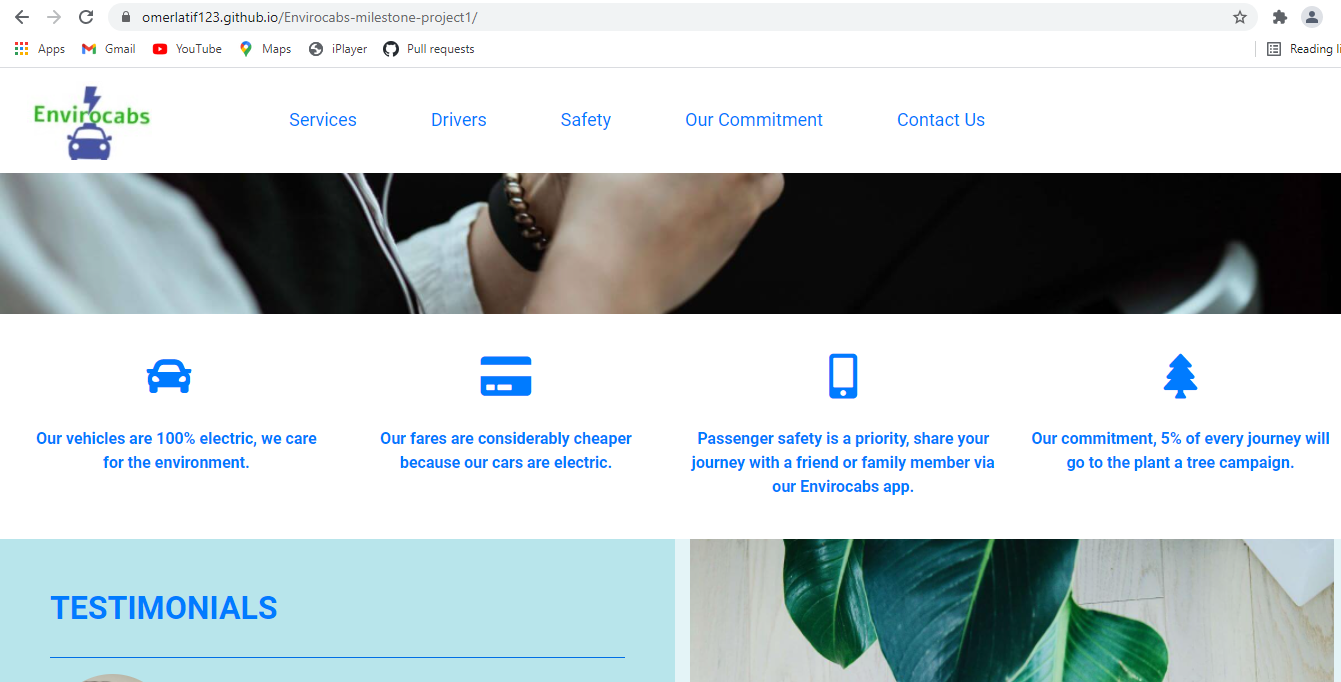
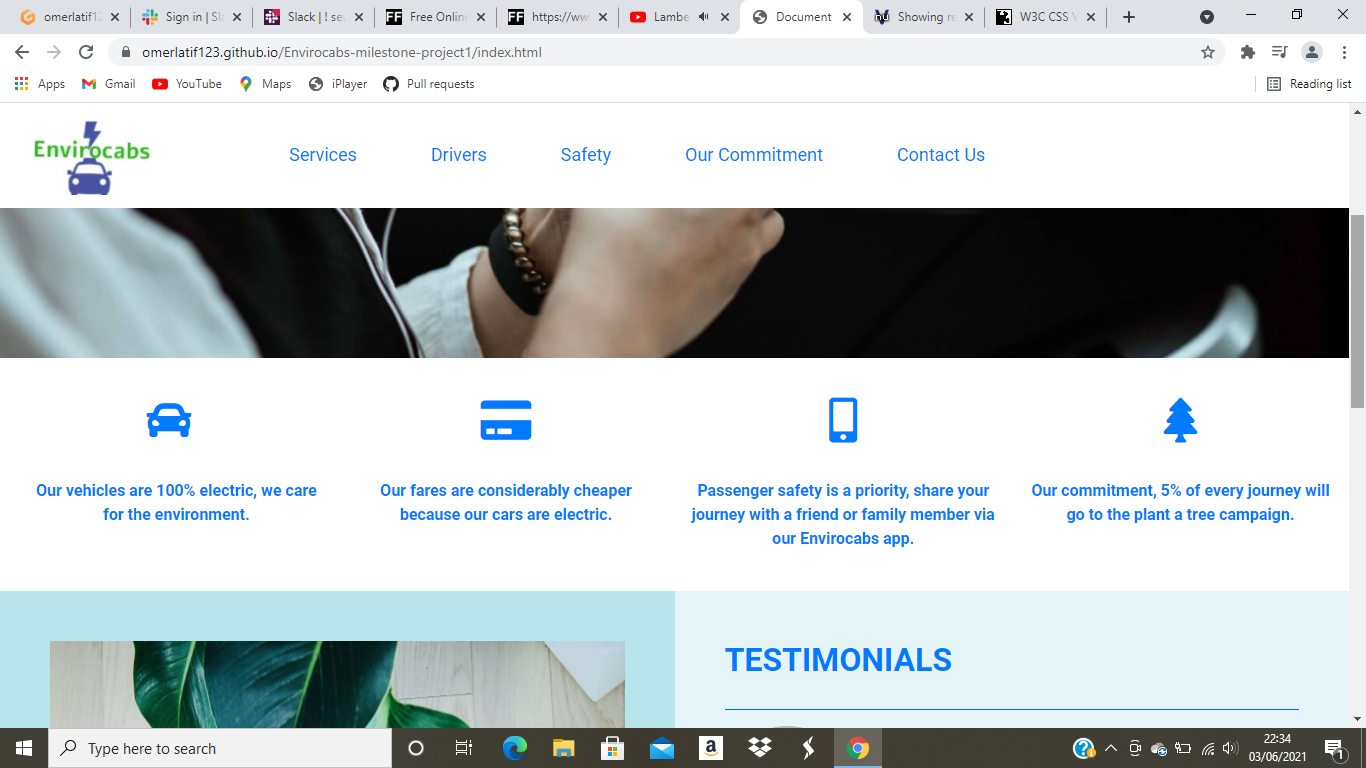
in the process of beautifying readme file, project near completion

diff --git a/README.md b/README.md
@@ -82,9 +82,10 @@ iii.[Differences to Design](#Differences-to-Design)
 
 ### What is the purpose? 
 
-The company wants the website to be simple and visually attractive to its customers. They also want website viewers to be given the opportunity to quickly book a cab or download their app with ease through the website. This is the overall goal of the company to have new and existing customers to book cabs.  Envirocabs has also stated that they want to further expand their social media presence and therefore this must be highlighted on their website, to allow website visitors to access their Instagram, Facebook, Twitter and Snap chat.  
+The company wants the website to be simple and visually attractive to its customers. They also want website viewers to be given the opportunity to quickly book a cab or download their app with ease through the website. This is the overall goal of the company to have new and existing customers to book cabs.  Envirocabs has also stated that they want to further expand their social media presence and therefore this must be highlighted on their website, to allow website visitors to access their Instagram, Facebook, Twitter and Snapchat.  
 
-Our client is Envirocabs a start-up minicab office that is environmentally friendly. All Envirocabs vehicles are 100% electric and produce 0% omissions. The client wants to highlight this on their website as an environmentally friendly alternative to its competitors. Furthermore, the company believes there is a niche in the market to attract those aiming to reduce their carbon footprint but still require cabs to travel. The company wants to attract new customers as its innovative and literally a breath of fresh air from its polluting competitors. Envirocabs wants us to also highlight the environmental initiatives to further bolster their public image. 
+Our client is Envirocabs a start-up minicab office that is environmentally friendly, all Envirocabs vehicles are 100% electric and produce 0% omissions. The client wants to highlight this on their website as an environmentally friendly alternative to its competitors. Furthermore, the company believes there is a niche in the market to attract those aiming to reduce their carbon footprint but still require cabs to travel. The company wants to attract new customers as its innovative and literally a breath of fresh air from its polluting competitors. 
+Envirocabs wants us to also highlight the environmental initiatives to further bolster their public image. 
 
 ## UXD 
 
@@ -105,7 +106,7 @@ Our client is Envirocabs a start-up minicab office that is environmentally frien
 
 ## Structure 
 
-1)	I want to be able to navigate through the website quick and easily.   
+1)	I want to be able to navigate through the website quick and easily.
     
     The website will have a navigation menu at the top of the webpage, that will allow a visitor to select a heading to direct them to a new page. The header will have a logo when pressed that will take the visitor (which is a modern feature of other websites) to the Home Page. The rest of the header will have the following new page links Services, Drivers, Safety, Our Commitments and Contact Us.    
 
@@ -115,7 +116,9 @@ Our client is Envirocabs a start-up minicab office that is environmentally frien
 
 3)	 I want to learn about the company and its ethos on their website.  
      
-     The Home page will have a section which gives a visitor information about the company with the use of icon and text. Too much information will not be provided as to prevent the users from being overwhelmed with information on the Home page. The home page will feature testimonials from previous customers to reassure any new customer about its service. For further information about the company’s ethos the visitor can click on our commitments heading. The page will highlight the company’s commitment to the environment and its plant a tree initiative. It will state what the company has implemented to make itself environmentally friendly.    
+     The Home page will have a section which gives a visitor information about the company with the use of icon and text. Too much information will not be provided as to prevent the users from being overwhelmed with information on the Home page. The home page will feature testimonials from previous customers to reassure any new customer about its service. 
+     
+     For further information about the company’s ethos the visitor can click on our commitments heading. The page will highlight the company’s commitment to the environment and its plant a tree initiative. It will state what practices the company has implemented to make itself environmentally friendly.    
 
 4)	I want to be able to follow the company on various media platforms.  
     
@@ -123,15 +126,17 @@ Our client is Envirocabs a start-up minicab office that is environmentally frien
 
 5)	I want to learn about the safety procedures the company has in place during the pandemic.  
      
-     Considering the on-going pandemic, customers want to be reassured that practices are in places to keep them protected. The Safety page will highlight with icon and information that the vehicles are regularly cleaned, drivers will wear a face mask along with customers, hand sanitiser is available to use, and safety screens are in every vehicle.  The company’s commitment to customer safety will be highlighted by promoting they have acquired an accreditation in hygiene.
+     Considering the on-going pandemic, customers want to be reassured that practices are in places to keep them protected. The Safety page will highlight with icons and information vehicles are regularly cleaned, drivers will wear a face mask along with customers, hand sanitiser is available to use, and safety screens are in every vehicle.  The company’s commitment to customer safety will be highlighted by promoting they have acquired an accreditation in hygiene.
 
 6)	We want visitors to the site, to book on our website directly or download our app to book a cab.  
 
-    The Website Homepage will have a button on the hero image that when selected will take the visitor to the contact us page. Furthermore, on every page the website footer has the option to book directly through the website with a make a booking button or to select the apple or android icons that will allow the customer to download our app.   
+    The Website Homepage will have a button on the hero image that when selected will take the visitor to the contact us page. 
+    
+    Furthermore, on every page the website footer has the option to book directly through the website with a make a booking button or to select the apple or android icons that will allow the customer to download our app.   
 
 7)	We want visitors to be aware our fleet of vehicles are 100% electric and there 0% emissions, want to target customers who want to reduce their carbon footprint and those wanting to be greener. 
     
-    On the Homepage the visitor to the site will be given some information about Envirocabs. The visitor will be provided with information that the vehicles are electric and produce no emissions. Other headers such as Service will provide type of cabs we offer (standard 5-seater car, executive car, and 7-seater car), and other services such as removals (van) we offer but emphasising our fleet of vehicles are 100% electric and produce 0% emissions. 
+    On the Homepage the visitor to the site will be given some information about Envirocabs. The visitor will be provided with information that the vehicles are electric and produce no emissions. Other headers such as Service will provide the type of cabs we offer (standard 5-seater car, executive car, and 7-seater car), and other services such as removals (van) but emphasising our fleet of vehicles are 100% electric and produce 0% emissions. 
 
 8)	We want visitors to be presented with information that we are a green alternative to other companies.     
     
@@ -148,13 +153,15 @@ Our client is Envirocabs a start-up minicab office that is environmentally frien
       
 ## Skeleton
 
-Wireframe mockups were created in a Balsamic with our clients and potential visitors goal in mind.
+Wireframe mockups were created in a Balsamic with our clients and potential visitors goals in mind.
 Images section in the wireframes have been higlighted in blue, this was previously due to the images from the wireframe being different from the completed website. 
 Furthermore the images used on the final Envirocabs website are free to use images causing no copyright/royalty payment concerns. Some of the images from the wireframes may not have been copyright/royalty free and therefore the imagess have bee covered as a precaution. 
 
 Home Page:
 ![home Page Wireframe](assets/readme-files/home-wireframe-page.png "home Page Wireframe")
 
+please note the image next to the testimonial section was intially on right hand side as reflected by the wireframes.
+In the finshed website the images is on the left hand side.
 
 Services Page:
 ![services Page Wireframe](assets/readme-files/services-page.png "services Page Wireframe")
@@ -174,8 +181,11 @@ Contact Us Page:
 # Design
 
 ### Colour Scheme
-The two main colours used are Blue and White as these colours compliment the Envirocabs logo. The colour concept is blue because this is associated with the colour of electricity this relates to our vehicles being 100% electric. White was used as a contrast to blue and gives the website a simplistic but professional and sytlish look. The website should look appealing but should allow the customer to focus on the content rather than to visually distracted by an array of colours.
-Green was picked for the Our Commitment page in which we the client wanted to highlight their green initiatives and procedures Envirocabs is implementing to go greener. Environment is associated with green and therefore we wanted this to be highlight. All other webpages have blue text, but Our Commitment page has green text. The sudden colour change will draw the attention of the user when they are on this page.   
+The two main colours used are Blue and White as these colours compliment the Envirocabs logo. The colour concept is blue because this is associated with the colour of electricity this relates to our vehicles being 100% electric. White was used as a contrast to blue and gives the website a simplistic but professional and sytlish look. The website should look appealing but allow the customer to focus on the content rather than to visually distracted by an array of colours.
+
+Green was picked for the Our Commitment page in which we the client wanted to highlight their green initiatives and procedures Envirocabs is implementing to go greener. Environment is associated with green and therefore we wanted this to be highlighted. All other webpages have blue text, but Our Commitment page has green text. The sudden colour change will draw the attention of the user when they are on this page.   
+
+Various shades of the main colours are used throughtout the website, keeping are colour scheme but at the same time preventing the website becoming visually dull. 
 
  #### Colours used in website background and text.
 
@@ -197,10 +207,10 @@ Green was picked for the Our Commitment page in which we the client wanted to hi
 
 
 #### Typography
-The headers on all pages throughout the Website and main text is using the font ‘Roboto’ with default text of ‘San-Serif’. The header text and parts of the main text are bold catching the user’s eye. We have kept our content at a minimal not to make our website cluttered or causing the user cognitive overload with large amount of information text. Furthermore when researching other cab webpages such as uber,bolt etc have minimalistic content.
+The headers on all pages throughout the Website and main text use the font ‘Roboto’ with default text of ‘San-Serif’. The header text and parts of the main text are bold catching the user’s eye. We have kept our content at a minimal not to make our website cluttered or to prevent cognitive overload with large amount of information. Furthermore when researching other cab webpage the best one's have minimalistic content.
 
 #### Imagery
-Brand awareness is important to Envirocabs and they have requested their own Logo to be used in the Nav section of the website. The header contains the Envirocabs logo which has been designed and created on www.wix.com. (https://www.wix.com/logo/maker/esh). The logo is interactive and when clicked will redirect the user back to the home page.   
+Brand awareness is important to Envirocabs and they have requested their own Logo to be used in the Nav section of the website. The header contains the Envirocabs logo which has been designed and created on www.wix.com. The logo is interactive and when clicked will redirect the user back to the home page.   
 The images used are all related to section of the website the user is on, for example in the safety section the hero image is of a car interior being cleaned. The imagery chosen fits well within the theme of the webpage as they relate to the subject matter. The imagery used is also visually striking without being overbearing on the rest of the webpage.     
 
 
@@ -210,42 +220,46 @@ The images used are all related to section of the website the user is on, for ex
 
 ### <strong>Header</strong>
 
-Contains Envirocabs logo in the top left of screen and when clicked will redirect user back to home page. The right of the navigation bar contains headings (our Services, Drivers, Safety, Our Commitment and Contact us when clicked will direct user to appropriate page of website. 
+Contains Envirocabs logo in the top left of screen and when clicked will redirect the user back to home page. The right of the navigation bar contains headings (our Services, Drivers, Safety, Our Commitment and Contact us when clicked will direct user to appropriate page of website). 
 On smaller screens, the navigation bar collapses into a toggler icon. Clicking it will reveal navigation headings.  
 
 ### <strong>Footer</strong>
 
-Left hand side of the footer contains make a booking button when clicked will redirect user to contact us page which has the make a booking form. The user can make a booking directly through the Envirocabs website or is given the option to download the app. Both the Apple icon and Android icon when clicked will redirect users to their platforms for them to download the app. The right-hand side of the footer contains social media icons, when clicked will redirected to the company’s social media pages.  
+Left hand side of the footer contains make a booking button when clicked will redirect user to contact us page which has the make a booking form. The user can make a booking directly through the Envirocabs website or is given the option to download the app. Both the Apple icon and Android icon when clicked will redirect users to their platforms for them to download the app. 
+
+The right-hand side of the footer contains social media icons, when clicked will redirected to the company’s social media pages.  
 
 ### <strong>Home Page</strong>
 
-Hero image with Booking button- Below the header there will be a large hero image with a bold blue/ white booking button. The booking button on the hero image when clicked will redirect the user to the contact us page which has the make a booking form. The high-quality professional image used sets the tone for Envirocabs webpage. 
+Hero image with Booking button- Below the header there will be a large hero image with a bold green/white booking button. The booking button on the hero image when clicked will redirect the user to the contact us page which has the make a booking form. The high-quality professional image used sets the tone for Envirocabs webpage. 
 Information container with icons- The information container provides brief information about the positives of using Envirocabs to the user/customer. Information is concise and straight to the point therefore keeping the user engaged. Too information may prevent the user from reading further, icons above the information to makes it visually appealing.   
 Testimonial- The testimonial section provides quotes and images of happy customers. This was designed to persuade users/customers to use Envirocabs. When reading positive comments about the company it will reassure users/ first time customers who are thinking of using Envirocabs. The testimonial background colour was used to draw the user’s attention to the section and break up the colour scheme of the webpage. 
+Image- A image next to the testimonial section will help break the page down and image of a suitcase also provoke thoughts of travel to the vistors/customer.
 
 ### <strong>Our Services section</strong>
 
 Hero image- The large hero image below the navbar will be relevant to the section.
-Information container- provides the relevant information to the customer about Envirocabs electric vehicles and visually separates the page. The section has been left with colour to the text or background to prevent visual overload. The hero image is visually striking and the services grid therefore in the middle of the webpage is left plain. 
-Information grid with images- grid of 8 boxes but split into sections of 2. The boxes on the left side contain information about the vehicles and the boxes on the right side have the images of vehicles. This provides clarity to the user/customer to view and read about the vehicle that suits their need before they book. Two tons of blue are used to alternate between the boxes to create a visually appealing section.    
+Information container- provides relevant information to the vistor about Envirocabs electric vehicles and visually separates the page. The section has been left without colour to the text or background to prevent visual overload and to break the page up. The hero image is visually striking and the services grid is also visually striking therefore the middle of the webpage is left plain. 
+Information grid with images- grid of 8 boxes but split into sections of 2. The boxes on the left side contain information about the vehicles and the boxes on the right side have the images of vehicles. This provides clarity to the user/customer to view and read about the vehicle that suits their need before they book. Two tones of blue are used to alternate between the boxes to create a visually appealing section.    
 
 ### <strong>Drivers section</strong>  
 
 Hero image- The large hero image below the navbar will be relevant to the section.
-Information container with icons- The information container provides brief information about the Envirocabs drivers, for customers own peace of mind information such as drivers being certified and have had criminal background checks provide reassurance to user/customer that they are in the safe hands of a professional company. Information is concise and straight to the point therefore keeping the user engaged. Too information may prevent the user from reading further, icons above the information to makes it visually appealing.     
+Information container with icons- The information container provides brief information about the Envirocabs drivers, for customers own peace of mind information such as drivers being certified and have had criminal background checks provide reassurance to user/customer that they are in the safe hands of a professional company. 
+Information is concise and straight to the point therefore keeping the user engaged. Too information may prevent the user from reading further, icons above the information to makes it visually appealing.     
 Information container with picture - provides the relevant information to the customer about customer safety, the section has been split. The left side has a visually striking image, and the right side has information. The section provides information about safety of passenger, the customers journey can be tracked via GPS. The Envirocabs app has an emergency panic button or customers/drivers can call a 24/7 support team. Dark blue has been used for the text and lighter tone of blue has been used for the container’s background. Both colours complement each other will without either being overbearing visually. 
 
 ### <strong>Safety section</strong>  
 
 Hero image- The large hero image below the navbar will be relevant to the section.
-Information container with icons- The information container provides brief information about the procedures Envirocabs has implemented to keep customers during covid-19 pandemic. This section provides Information into the safety policies implemented such as requiring both customers and drivers to wear masks. Brief information is provided about the companies cleaning procedure and hand sanitiser readily available to customers. The information is concise and straight to the point therefore keeping the user engaged. This section provides reassurance to customers that Envirocabs is doing its upmost to be covid safe. Too information may prevent the user from reading further, icons above the information to makes it visually appealing.        
+Information container with icons- The information container provides brief information about the procedures Envirocabs has implemented to keep customers safe during covid-19 pandemic. This section provides Information into the safety policies implemented such as requiring both customers and drivers to wear masks. Brief information is provided about the companies cleaning procedure and hand sanitiser readily available to customers. The information is concise and straight to the point therefore keeping the user engaged. This section provides reassurance to customers that Envirocabs is doing its upmost to be covid safe. Too information may prevent the user from reading further, icons above the information to makes it visually appealing.        
 Information container with picture - provides the relevant information to the customer about customer safety, the section has been split. The right side has a visually striking image, and the left side has information. Information that Envirocabs has been accredited in safety and hygiene certificate 2021 for cleanliness of vehicles. 
 
 ### <strong>Our Commitments section</strong> 
 
 Hero image- The large hero image below the navbar will be relevant to the section.
 Quote container- has a large commitment message from Envirocabs.
-Information container with picture - provides the relevant information to the customer about the environmental initiatives and commitments Envirocabs has implemented. The sections alternate with information and images. One section of information provides details on Envirocabs plant a tree campaign and the other section of information provide details of procedures Envirocabs has introduced to become greener. Green has been used for the text colour to reinforce the concept of environmentally friendly.
+Information grid with images - provides the relevant information to the customer about the environmental initiatives and commitments Envirocabs has implemented. The sections alternate with information and images. One section of information provides details on Envirocabs plant a tree campaign and the other section of information provide details of procedures Envirocabs has introduced to become greener. Green has been used for the text colour to reinforce the concept of environmentally friendly.
 
 
 ### <strong>Contact us section</strong>
@@ -420,6 +434,42 @@ Testing user stories
 
     ![image-14](assets/readme-files/image-13.png) 
     ![image-15](assets/readme-files/image-14.png) 
+
+
+### Code Validator
+
+The W3C Markup Validator was used to validate the HTML code and The W3C CSS Validator service was used to validate the CSS coded used.
+
+Results:  
+
+index.html 
+
+![code-1](assets/readme-files/code-1.png)
+
+services.html 
+
+![code-2](assets/readme-files/code-2.png)
+
+drivers.html
+
+![code-3](assets/readme-files/code-3.png)
+
+safety.html 
+
+![code-4](assets/readme-files/code-4.png)
+
+our-commitments.html
+
+![code-5](assets/readme-files/code-5.png)
+
+contact-us.html
+
+![code-6](assets/readme-files/code-6.png)  
+
+css 
+
+![code-7](assets/readme-files/code-7.png)  
+
 ### Lighthouse Auditing  
 I tested the performance of each page through google lighthouse but had issues with the testing and have added a screenshot of the results from fellow students. The reason was due to my internet connection within my area that adversely affected my lighthouse results. 
 My initial tests scores were in 80’s and 90’s except for the performance section which was well below 50. 
